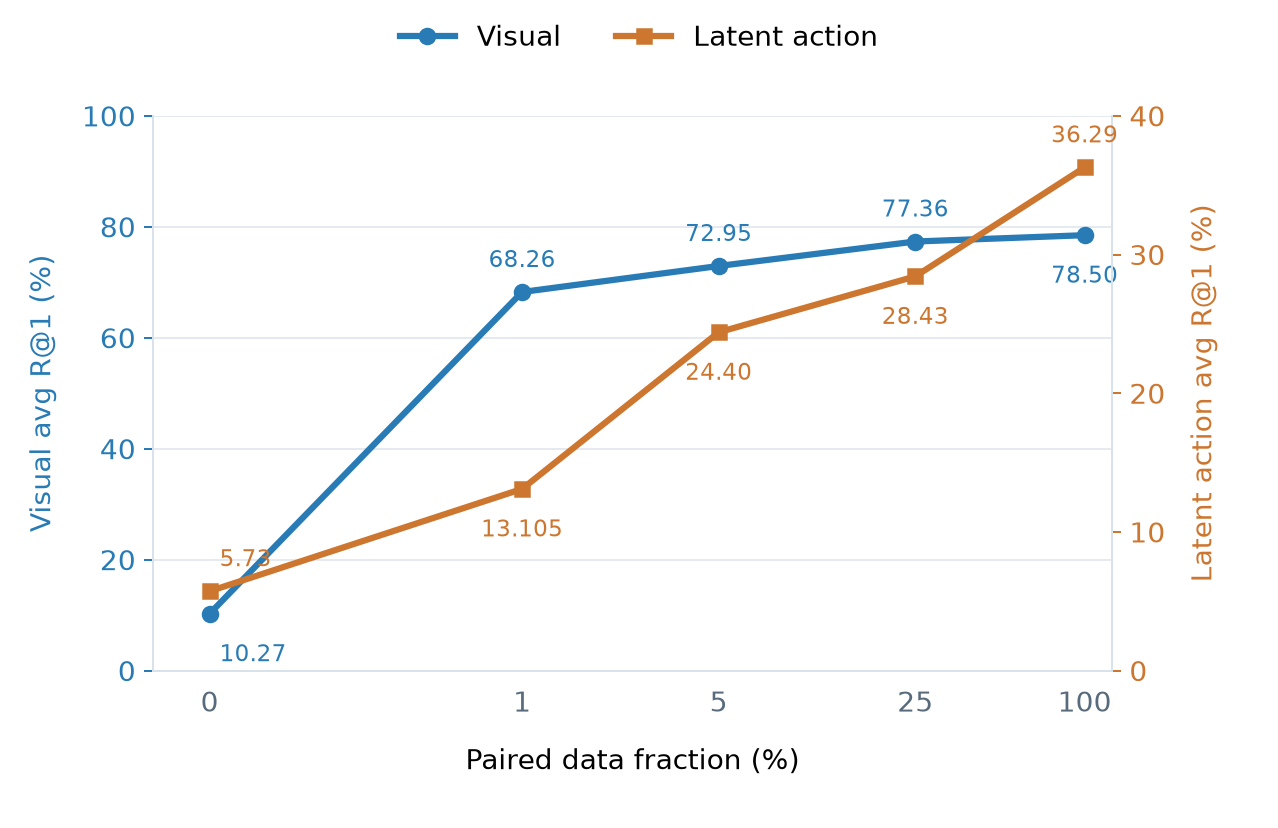
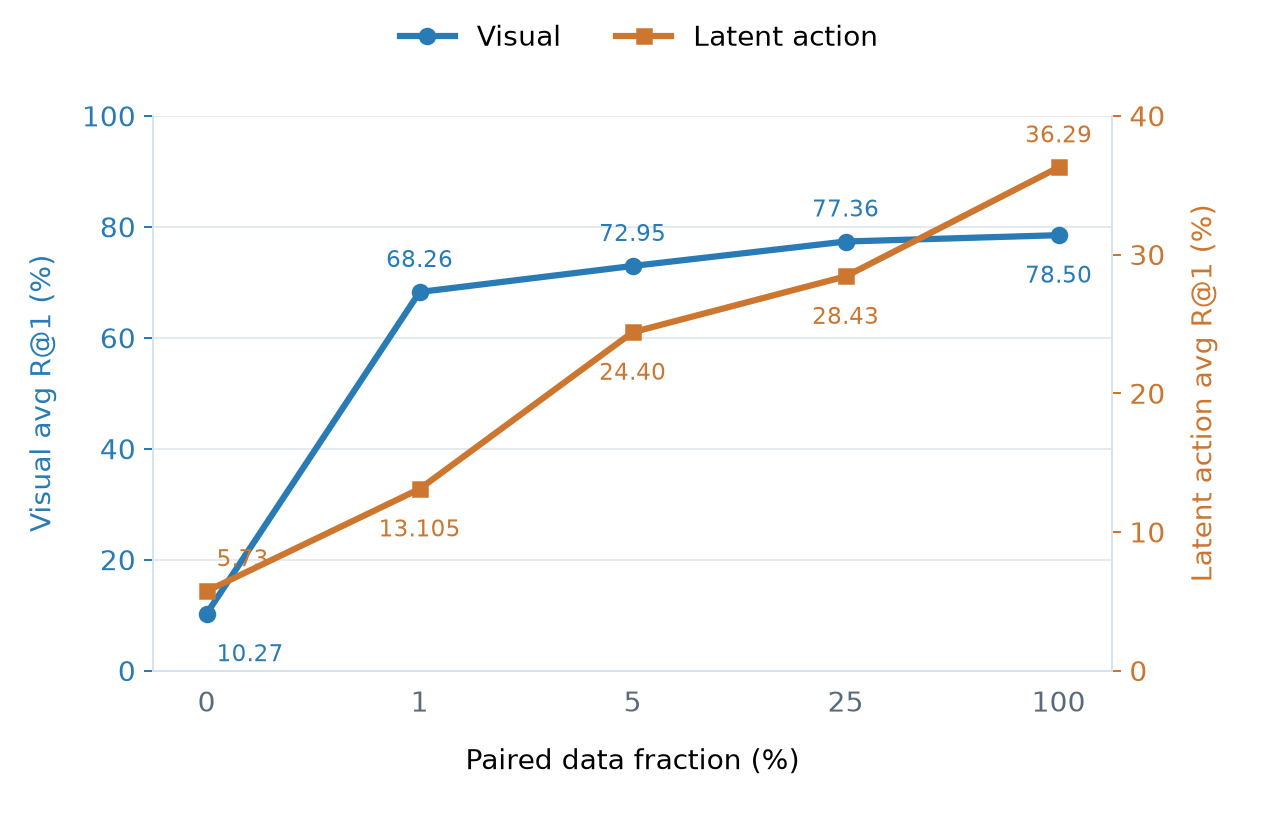
Refine paired-data scaling layout and labels

diff --git a/index.html b/index.html
@@ -32,9 +32,14 @@
 <h3 class="spaced">Cross-embodiment retrieval</h3><p class="section-intro compact">Average Recall@1 rises from <strong>43.55% to 78.50%</strong>. HARP improves both geometric alignment and discrimination between paired demonstrations.</p>
 <figure class="result-figure"><img loading="lazy" src="assets/retrieval.svg" alt="Average retrieval R@1: Unadapted 43.55%, HR 45.16%, HARP-HR 53.23%, HARP-L2 61.83%, HARP-SR 74.74%, HARP-SRPD 78.50%." width="652" height="254"><figcaption>Average of human-to-robot and robot-to-human Recall@1. Higher is better. Table 1.</figcaption></figure><details class="data-details"><summary>View full results · Table 1 · Bidirectional retrieval</summary><div class="table-wrap"><table><caption>Table 1 · Bidirectional retrieval</caption><thead><tr><th scope="col">Method</th><th scope="col">Human → robot</th><th scope="col">Robot → human</th><th scope="col">Average R@1</th></tr></thead><tbody><tr class=""><th scope="row">Unadapted</th><td>44.09</td><td>43.01</td><td>43.55</td></tr><tr class=""><th scope="row">HR</th><td>45.16</td><td>45.16</td><td>45.16</td></tr><tr class=""><th scope="row">HARP-HR</th><td>46.24</td><td>60.22</td><td>53.23</td></tr><tr class=""><th scope="row">HARP-L2</th><td>70.97</td><td>52.69</td><td>61.83</td></tr><tr class=""><th scope="row">HARP-SR</th><td>84.95</td><td>64.52</td><td>74.74</td></tr><tr class="ours"><th scope="row">HARP-SRPD</th><td>87.10</td><td>69.89</td><td>78.50</td></tr></tbody></table></div></details></section><section id="ablations"><p class="eyebrow">03 / Ablations</p><h2>Complementary signals make alignment stronger</h2><p class="section-intro">Self-prediction, cross-prediction, unpaired videos and manipulation-centric auxiliary cues each contribute to the learned representation.</p><figure class="result-figure"><img loading="lazy" src="assets/ablation.svg" alt="Full HARP leads all ablated variants in visual retrieval, latent-action retrieval and code-agreement gap." width="795" height="225"><figcaption>Controlled Stage-1 ablations. Removing one source of supervision degrades correspondence. Table 2.</figcaption></figure><details class="data-details"><summary>View full results · Table 2 · Component ablations</summary><div class="table-wrap"><table><caption>Table 2 · Component ablations</caption><thead><tr><th scope="col">Variant</th><th scope="col">Visual R@1</th><th scope="col">Latent R@1</th><th scope="col">Code-agreement gap</th></tr></thead><tbody><tr class="ours"><th scope="row">Full HARP</th><td>78.50</td><td>36.29</td><td>30.67</td></tr><tr class=""><th scope="row">Self-only</th><td>73.93</td><td>26.62</td><td>22.24</td></tr><tr class=""><th scope="row">Cross-only</th><td>75.10</td><td>28.03</td><td>25.16</td></tr><tr class=""><th scope="row">Paired-only</th><td>75.16</td><td>32.06</td><td>30.04</td></tr><tr class=""><th scope="row">Without auxiliary cues</th><td>73.37</td><td>34.07</td><td>26.71</td></tr></tbody></table></div></details><template id="paired-supervision-experiment"><h3 class="spaced">Strong performance with less paired supervision</h3><p class="section-intro compact">With 5% of the paired data, HARP retains 72.95% visual Recall@1 and a CALVIN average length of 4.214. Unpaired data and optimization budget are held fixed.</p><figure class="result-figure"><img loading="lazy" src="assets/scaling.svg" alt="Paired data scaling at 5%, 25% and 100% shows CALVIN average length 4.214, 4.354 and 4.481." width="722" height="254"><figcaption>Paired supervision scales from approximately 1.2M to 24M processed frames. Table 3.</figcaption></figure><details class="data-details"><summary>View full results · Table 3 · Paired-data scaling</summary><div class="table-wrap"><table><caption>Table 3 · Paired-data scaling</caption><thead><tr><th scope="col">Paired data</th><th scope="col">Visual R@1</th><th scope="col">Latent R@1</th><th scope="col">RLBench</th><th scope="col">CALVIN</th></tr></thead><tbody><tr class=""><th scope="row">100% (~24M frames)</th><td>78.50</td><td>36.29</td><td>46.59</td><td>4.481</td></tr><tr class=""><th scope="row">25% (~6M frames)</th><td>77.36</td><td>28.43</td><td>42.10</td><td>4.354</td></tr><tr class=""><th scope="row">5% (~1.2M frames)</th><td>72.95</td><td>24.40</td><td>40.70</td><td>4.214</td></tr></tbody></table></div></details></template></section><section id="rlbench"><p class="eyebrow">04 / Visual representation transfer</p><h2>Better features for robot policy learning</h2><p class="section-intro">With frozen visual encoders and a shared downstream policy setup, HARP-SRPD achieves <strong>46.59% average success</strong> across 18 RLBench tasks, compared with 37.56% for the unadapted encoder.</p><figure class="result-figure"><img loading="lazy" src="assets/rlbench.svg" alt="RLBench average success increases from 37.56% with unadapted features to 46.59% with HARP-SRPD." width="653" height="312"><figcaption>Same policy architecture, data, action space and optimization budget. Table 4.</figcaption></figure><details class="data-details"><summary>View full results · Table 4 · Frozen-encoder RLBench results</summary><div class="table-wrap"><table><caption>Table 4 · Frozen-encoder RLBench results</caption><thead><tr><th scope="col">Method</th><th scope="col">Success rate (%)</th></tr></thead><tbody><tr class=""><th scope="row">Unadapted</th><td>37.56</td></tr><tr class=""><th scope="row">HR</th><td>39.70</td></tr><tr class=""><th scope="row">HR-Style</th><td>38.22</td></tr><tr class=""><th scope="row">HARP-HR</th><td>35.11</td></tr><tr class=""><th scope="row">HARP-HR-Style</th><td>40.07</td></tr><tr class=""><th scope="row">HARP-L2</th><td>40.78</td></tr><tr class=""><th scope="row">HARP-SR</th><td>43.41</td></tr><tr class="ours"><th scope="row">HARP-SRPD</th><td>46.59</td></tr></tbody></table></div></details></section><section id="paired-data-scaling" aria-labelledby="paired-scaling-title">
 <p class="eyebrow">05 / Paired data scaling</p>
-<h2 id="paired-scaling-title">Limited paired data for feature alignment.</h2>
-<p class="section-intro">Collecting only <strong>1–5% of paired data</strong> already yields effective cross-embodiment feature alignment, enabling strong performance on CALVIN and in the real world.</p>
+<h2 id="paired-scaling-title">Limited paired data for feature alignment</h2>
+<p class="section-intro">Collecting only <strong>1–5% of paired data</strong> already yields effective human-robot feature alignment, enabling strong performance on RLBench and CALVIN.</p>
 <div class="paired-scaling-grid">
+<figure class="scaling-chart">
+<h3>Feature alignment</h3>
+<img loading="lazy" src="assets/paired-data-scaling.svg" width="710" height="460" alt="Visual and latent-action average Recall@1 at paired fractions 0, 1, 5, 25 and 100 percent. Visual: 10.27, 68.26, 72.95, 77.36, 78.50. Latent action: 5.73, 13.105, 24.40, 28.43, 36.29. Separate vertical axes, both higher is better.">
+<figcaption>Separate vertical axes show visual and latent-action average R@1. Paired-data fractions are shown as equally spaced experimental settings.</figcaption>
+</figure>
 <figure class="scaling-table">
 <h3>Downstream performance</h3>
 <div class="table-wrap"><table>
@@ -47,11 +52,7 @@
 </tbody></table></div>
 <figcaption>Parentheses indicate the approximate number of unique paired frames retained. Dataset-mixture probabilities, unpaired data and the optimization budget are fixed.</figcaption>
 </figure>
-<figure class="scaling-chart">
-<h3>Feature alignment</h3>
-<img loading="lazy" src="assets/paired-data-scaling.svg" width="710" height="460" alt="Visual and latent-action average Recall@1 at paired fractions 0, 1, 5, 25 and 100 percent. Visual: 10.27, 68.26, 72.95, 77.36, 78.50. Latent action: 5.73, 13.105, 24.40, 28.43, 36.29. Separate vertical axes, both higher is better.">
-<figcaption>Separate vertical axes show visual and latent-action average R@1. The horizontal axis uses a symmetric-log scale (linear from 0–1%) to make the low-data settings readable.</figcaption>
-</figure>
+
 </div>
 </section><section id="calvin"><p class="eyebrow">06 / Policy evaluation</p><h2>CALVIN · Generalization across environments</h2><p class="section-intro">Long-horizon manipulation in the ABC→D setting.</p><div class="metrics"><div><strong>4.481</strong><span>Average sequence length</span></div><div><strong>75.9%</strong><span>Five-task success rate</span></div><div><strong>10</strong><span>Actions per prediction</span></div></div><figure class="result-figure"><img loading="lazy" src="assets/calvin.svg" alt="CALVIN sequence success rates for eight evaluated models. HARP-VLA achieves 99.8, 96.7, 91.3, 84.4 and 75.9 percent for one through five consecutive tasks." width="647" height="312"><figcaption>Success rate for completing 1–5 consecutive tasks. System-level comparisons across evaluated policies. Table 6.</figcaption></figure><details class="data-details"><summary>View full results · Table 6 · CALVIN ABC→D</summary><div class="table-wrap"><table><caption>Table 6 · CALVIN ABC→D</caption><thead><tr><th scope="col">Model</th><th scope="col">1 task</th><th scope="col">2 tasks</th><th scope="col">3 tasks</th><th scope="col">4 tasks</th><th scope="col">5 tasks</th><th scope="col">Average length</th></tr></thead><tbody><tr class=""><th scope="row">π₀</th><td>92.3</td><td>82.4</td><td>72.1</td><td>62.2</td><td>53.7</td><td>3.627</td></tr><tr class=""><th scope="row">π₀.₅</th><td>94.4</td><td>86.0</td><td>76.4</td><td>69.7</td><td>61.0</td><td>3.875</td></tr><tr class=""><th scope="row">OpenVLA</th><td>91.3</td><td>77.8</td><td>62.0</td><td>52.1</td><td>43.5</td><td>3.270</td></tr><tr class=""><th scope="row">UniVLA</th><td>95.4</td><td>85.5</td><td>75.4</td><td>66.9</td><td>56.5</td><td>3.800</td></tr><tr class=""><th scope="row">OpenVLA-OFT</th><td>94.2</td><td>86.4</td><td>78.0</td><td>70.4</td><td>62.7</td><td>3.917</td></tr><tr class=""><th scope="row">HARP-VLA (L2)</th><td>95.8</td><td>89.7</td><td>81.3</td><td>72.8</td><td>64.8</td><td>4.044</td></tr><tr class=""><th scope="row">HARP-VLA (w/o freezing)</th><td>98.8</td><td>93.9</td><td>86.1</td><td>77.7</td><td>68.5</td><td>4.250</td></tr><tr class="ours"><th scope="row">HARP-VLA</th><td>99.8</td><td>96.7</td><td>91.3</td><td>84.4</td><td>75.9</td><td>4.481</td></tr></tbody></table></div></details><div id="calvin-demos" class="spaced"><h3>Five sequences, five steps each</h3><p class="section-intro compact">Read each row from left to right: five consecutive successful subtasks in each recorded sequence.</p><div class="gallery-tools"><div class="camera-toggle" role="group" aria-label="CALVIN camera"><button type="button" aria-pressed="true" data-camera="static">Static camera</button><button type="button" aria-pressed="false" data-camera="wrist">Gripper camera</button></div><button type="button" id="pause-demos">Pause all demos</button></div><p class="mobile-hint">Swipe to view all five steps →</p><div class="sim-scroll"><div class="sim-grid"><figure class="demo sim"><div class="video-frame"><video controls muted playsinline loop preload="none" poster="assets/calvin-1-1.jpg" aria-label="Sequence 1 · Step 1 Lift pink block slider" data-stem="calvin-1-1"><source src="assets/calvin-1-1.mp4" type="video/mp4"></video><button class="expand" type="button" aria-label="Enlarge  Sequence 1 · Step 1 Lift pink block slider" title="Enlarge video">↗</button></div><figcaption><span class="sequence-label">Sequence 1 · Step 1</span>Lift pink block slider</figcaption></figure><figure class="demo sim"><div class="video-frame"><video controls muted playsinline loop preload="none" poster="assets/calvin-1-2.jpg" aria-label="Sequence 1 · Step 2 Place in slider" data-stem="calvin-1-2"><source src="assets/calvin-1-2.mp4" type="video/mp4"></video><button class="expand" type="button" aria-label="Enlarge  Sequence 1 · Step 2 Place in slider" title="Enlarge video">↗</button></div><figcaption><span class="sequence-label">Sequence 1 · Step 2</span>Place in slider</figcaption></figure><figure class="demo sim"><div class="video-frame"><video controls muted playsinline loop preload="none" poster="assets/calvin-1-3.jpg" aria-label="Sequence 1 · Step 3 Open drawer" data-stem="calvin-1-3"><source src="assets/calvin-1-3.mp4" type="video/mp4"></video><button class="expand" type="button" aria-label="Enlarge  Sequence 1 · Step 3 Open drawer" title="Enlarge video">↗</button></div><figcaption><span class="sequence-label">Sequence 1 · Step 3</span>Open drawer</figcaption></figure><figure class="demo sim"><div class="video-frame"><video controls muted playsinline loop preload="none" poster="assets/calvin-1-4.jpg" aria-label="Sequence 1 · Step 4 Rotate red block right" data-stem="calvin-1-4"><source src="assets/calvin-1-4.mp4" type="video/mp4"></video><button class="expand" type="button" aria-label="Enlarge  Sequence 1 · Step 4 Rotate red block right" title="Enlarge video">↗</button></div><figcaption><span class="sequence-label">Sequence 1 · Step 4</span>Rotate red block right</figcaption></figure><figure class="demo sim"><div class="video-frame"><video controls muted playsinline loop preload="none" poster="assets/calvin-1-5.jpg" aria-label="Sequence 1 · Step 5 Lift red block table" data-stem="calvin-1-5"><source src="assets/calvin-1-5.mp4" type="video/mp4"></video><button class="expand" type="button" aria-label="Enlarge  Sequence 1 · Step 5 Lift red block table" title="Enlarge video">↗</button></div><figcaption><span class="sequence-label">Sequence 1 · Step 5</span>Lift red block table</figcaption></figure><figure class="demo sim"><div class="video-frame"><video controls muted playsinline loop preload="none" poster="assets/calvin-2-1.jpg" aria-label="Sequence 2 · Step 1 Open drawer" data-stem="calvin-2-1"><source src="assets/calvin-2-1.mp4" type="video/mp4"></video><button class="expand" type="button" aria-label="Enlarge  Sequence 2 · Step 1 Open drawer" title="Enlarge video">↗</button></div><figcaption><span class="sequence-label">Sequence 2 · Step 1</span>Open drawer</figcaption></figure><figure class="demo sim"><div class="video-frame"><video controls muted playsinline loop preload="none" poster="assets/calvin-2-2.jpg" aria-label="Sequence 2 · Step 2 Lift pink block table" data-stem="calvin-2-2"><source src="assets/calvin-2-2.mp4" type="video/mp4"></video><button class="expand" type="button" aria-label="Enlarge  Sequence 2 · Step 2 Lift pink block table" title="Enlarge video">↗</button></div><figcaption><span class="sequence-label">Sequence 2 · Step 2</span>Lift pink block table</figcaption></figure><figure class="demo sim"><div class="video-frame"><video controls muted playsinline loop preload="none" poster="assets/calvin-2-3.jpg" aria-label="Sequence 2 · Step 3 Place in slider" data-stem="calvin-2-3"><source src="assets/calvin-2-3.mp4" type="video/mp4"></video><button class="expand" type="button" aria-label="Enlarge  Sequence 2 · Step 3 Place in slider" title="Enlarge video">↗</button></div><figcaption><span class="sequence-label">Sequence 2 · Step 3</span>Place in slider</figcaption></figure><figure class="demo sim"><div class="video-frame"><video controls muted playsinline loop preload="none" poster="assets/calvin-2-4.jpg" aria-label="Sequence 2 · Step 4 Turn on lightbulb" data-stem="calvin-2-4"><source src="assets/calvin-2-4.mp4" type="video/mp4"></video><button class="expand" type="button" aria-label="Enlarge  Sequence 2 · Step 4 Turn on lightbulb" title="Enlarge video">↗</button></div><figcaption><span class="sequence-label">Sequence 2 · Step 4</span>Turn on lightbulb</figcaption></figure><figure class="demo sim"><div class="video-frame"><video controls muted playsinline loop preload="none" poster="assets/calvin-2-5.jpg" aria-label="Sequence 2 · Step 5 Rotate blue block left" data-stem="calvin-2-5"><source src="assets/calvin-2-5.mp4" type="video/mp4"></video><button class="expand" type="button" aria-label="Enlarge  Sequence 2 · Step 5 Rotate blue block left" title="Enlarge video">↗</button></div><figcaption><span class="sequence-label">Sequence 2 · Step 5</span>Rotate blue block left</figcaption></figure><figure class="demo sim"><div class="video-frame"><video controls muted playsinline loop preload="none" poster="assets/calvin-3-1.jpg" aria-label="Sequence 3 · Step 1 Push blue block left" data-stem="calvin-3-1"><source src="assets/calvin-3-1.mp4" type="video/mp4"></video><button class="expand" type="button" aria-label="Enlarge  Sequence 3 · Step 1 Push blue block left" title="Enlarge video">↗</button></div><figcaption><span class="sequence-label">Sequence 3 · Step 1</span>Push blue block left</figcaption></figure><figure class="demo sim"><div class="video-frame"><video controls muted playsinline loop preload="none" poster="assets/calvin-3-2.jpg" aria-label="Sequence 3 · Step 2 Close drawer" data-stem="calvin-3-2"><source src="assets/calvin-3-2.mp4" type="video/mp4"></video><button class="expand" type="button" aria-label="Enlarge  Sequence 3 · Step 2 Close drawer" title="Enlarge video">↗</button></div><figcaption><span class="sequence-label">Sequence 3 · Step 2</span>Close drawer</figcaption></figure><figure class="demo sim"><div class="video-frame"><video controls muted playsinline loop preload="none" poster="assets/calvin-3-3.jpg" aria-label="Sequence 3 · Step 3 Lift red block slider" data-stem="calvin-3-3"><source src="assets/calvin-3-3.mp4" type="video/mp4"></video><button class="expand" type="button" aria-label="Enlarge  Sequence 3 · Step 3 Lift red block slider" title="Enlarge video">↗</button></div><figcaption><span class="sequence-label">Sequence 3 · Step 3</span>Lift red block slider</figcaption></figure><figure class="demo sim"><div class="video-frame"><video controls muted playsinline loop preload="none" poster="assets/calvin-3-4.jpg" aria-label="Sequence 3 · Step 4 Place in slider" data-stem="calvin-3-4"><source src="assets/calvin-3-4.mp4" type="video/mp4"></video><button class="expand" type="button" aria-label="Enlarge  Sequence 3 · Step 4 Place in slider" title="Enlarge video">↗</button></div><figcaption><span class="sequence-label">Sequence 3 · Step 4</span>Place in slider</figcaption></figure><figure class="demo sim"><div class="video-frame"><video controls muted playsinline loop preload="none" poster="assets/calvin-3-5.jpg" aria-label="Sequence 3 · Step 5 Turn off lightbulb" data-stem="calvin-3-5"><source src="assets/calvin-3-5.mp4" type="video/mp4"></video><button class="expand" type="button" aria-label="Enlarge  Sequence 3 · Step 5 Turn off lightbulb" title="Enlarge video">↗</button></div><figcaption><span class="sequence-label">Sequence 3 · Step 5</span>Turn off lightbulb</figcaption></figure><figure class="demo sim"><div class="video-frame"><video controls muted playsinline loop preload="none" poster="assets/calvin-4-1.jpg" aria-label="Sequence 4 · Step 1 Push pink block right" data-stem="calvin-4-1"><source src="assets/calvin-4-1.mp4" type="video/mp4"></video><button class="expand" type="button" aria-label="Enlarge  Sequence 4 · Step 1 Push pink block right" title="Enlarge video">↗</button></div><figcaption><span class="sequence-label">Sequence 4 · Step 1</span>Push pink block right</figcaption></figure><figure class="demo sim"><div class="video-frame"><video controls muted playsinline loop preload="none" poster="assets/calvin-4-2.jpg" aria-label="Sequence 4 · Step 2 Lift pink block table" data-stem="calvin-4-2"><source src="assets/calvin-4-2.mp4" type="video/mp4"></video><button class="expand" type="button" aria-label="Enlarge  Sequence 4 · Step 2 Lift pink block table" title="Enlarge video">↗</button></div><figcaption><span class="sequence-label">Sequence 4 · Step 2</span>Lift pink block table</figcaption></figure><figure class="demo sim"><div class="video-frame"><video controls muted playsinline loop preload="none" poster="assets/calvin-4-3.jpg" aria-label="Sequence 4 · Step 3 Place in slider" data-stem="calvin-4-3"><source src="assets/calvin-4-3.mp4" type="video/mp4"></video><button class="expand" type="button" aria-label="Enlarge  Sequence 4 · Step 3 Place in slider" title="Enlarge video">↗</button></div><figcaption><span class="sequence-label">Sequence 4 · Step 3</span>Place in slider</figcaption></figure><figure class="demo sim"><div class="video-frame"><video controls muted playsinline loop preload="none" poster="assets/calvin-4-4.jpg" aria-label="Sequence 4 · Step 4 Push into drawer" data-stem="calvin-4-4"><source src="assets/calvin-4-4.mp4" type="video/mp4"></video><button class="expand" type="button" aria-label="Enlarge  Sequence 4 · Step 4 Push into drawer" title="Enlarge video">↗</button></div><figcaption><span class="sequence-label">Sequence 4 · Step 4</span>Push into drawer</figcaption></figure><figure class="demo sim"><div class="video-frame"><video controls muted playsinline loop preload="none" poster="assets/calvin-4-5.jpg" aria-label="Sequence 4 · Step 5 Close drawer" data-stem="calvin-4-5"><source src="assets/calvin-4-5.mp4" type="video/mp4"></video><button class="expand" type="button" aria-label="Enlarge  Sequence 4 · Step 5 Close drawer" title="Enlarge video">↗</button></div><figcaption><span class="sequence-label">Sequence 4 · Step 5</span>Close drawer</figcaption></figure><figure class="demo sim"><div class="video-frame"><video controls muted playsinline loop preload="none" poster="assets/calvin-5-1.jpg" aria-label="Sequence 5 · Step 1 Open drawer" data-stem="calvin-5-1"><source src="assets/calvin-5-1.mp4" type="video/mp4"></video><button class="expand" type="button" aria-label="Enlarge  Sequence 5 · Step 1 Open drawer" title="Enlarge video">↗</button></div><figcaption><span class="sequence-label">Sequence 5 · Step 1</span>Open drawer</figcaption></figure><figure class="demo sim"><div class="video-frame"><video controls muted playsinline loop preload="none" poster="assets/calvin-5-2.jpg" aria-label="Sequence 5 · Step 2 Push red block right" data-stem="calvin-5-2"><source src="assets/calvin-5-2.mp4" type="video/mp4"></video><button class="expand" type="button" aria-label="Enlarge  Sequence 5 · Step 2 Push red block right" title="Enlarge video">↗</button></div><figcaption><span class="sequence-label">Sequence 5 · Step 2</span>Push red block right</figcaption></figure><figure class="demo sim"><div class="video-frame"><video controls muted playsinline loop preload="none" poster="assets/calvin-5-3.jpg" aria-label="Sequence 5 · Step 3 Move slider left" data-stem="calvin-5-3"><source src="assets/calvin-5-3.mp4" type="video/mp4"></video><button class="expand" type="button" aria-label="Enlarge  Sequence 5 · Step 3 Move slider left" title="Enlarge video">↗</button></div><figcaption><span class="sequence-label">Sequence 5 · Step 3</span>Move slider left</figcaption></figure><figure class="demo sim"><div class="video-frame"><video controls muted playsinline loop preload="none" poster="assets/calvin-5-4.jpg" aria-label="Sequence 5 · Step 4 Lift pink block slider" data-stem="calvin-5-4"><source src="assets/calvin-5-4.mp4" type="video/mp4"></video><button class="expand" type="button" aria-label="Enlarge  Sequence 5 · Step 4 Lift pink block slider" title="Enlarge video">↗</button></div><figcaption><span class="sequence-label">Sequence 5 · Step 4</span>Lift pink block slider</figcaption></figure><figure class="demo sim"><div class="video-frame"><video controls muted playsinline loop preload="none" poster="assets/calvin-5-5.jpg" aria-label="Sequence 5 · Step 5 Place in slider" data-stem="calvin-5-5"><source src="assets/calvin-5-5.mp4" type="video/mp4"></video><button class="expand" type="button" aria-label="Enlarge  Sequence 5 · Step 5 Place in slider" title="Enlarge video">↗</button></div><figcaption><span class="sequence-label">Sequence 5 · Step 5</span>Place in slider</figcaption></figure></div></div><p class="table-note">Representative recorded rollouts. The gallery is separate from the aggregate benchmark evaluation.</p></div></section><section id="real-world"><p class="eyebrow">07 / Real-world manipulation</p><h2>From human videos to dexterous robot skills</h2><p class="section-intro">Xarm7 with a Robotera Xhand, evaluated on four tabletop manipulation tasks with 60 trials per task.</p><div class="metrics two"><div><strong>76.3%</strong><span>Average success rate</span></div><div><strong>+7.1 pp</strong><span>Over the strongest evaluated baseline</span></div></div><figure class="result-figure"><img loading="lazy" src="assets/realworld.svg" alt="Real-world success for pi0.5, OpenVLA-OFT and HARP-VLA on Pick, Push, Press and Flip. HARP-VLA scores 76.7%, 81.7%, 85.0% and 61.7%." width="650" height="259"><figcaption>Three reference policies shown for readability; all eight evaluated models are available below. Table 5.</figcaption></figure><details class="data-details"><summary>View full results · Table 5 · Real-world success rates (%)</summary><div class="table-wrap"><table><caption>Table 5 · Real-world success rates (%)</caption><thead><tr><th scope="col">Model</th><th scope="col">Pick</th><th scope="col">Push</th><th scope="col">Press</th><th scope="col">Flip</th><th scope="col">Average</th></tr></thead><tbody><tr class=""><th scope="row">π₀</th><td>58.3</td><td>75.0</td><td>56.7</td><td>35.0</td><td>56.3</td></tr><tr class=""><th scope="row">π₀.₅</th><td>71.7</td><td>83.3</td><td>68.3</td><td>53.3</td><td>69.2</td></tr><tr class=""><th scope="row">OpenVLA</th><td>0.0</td><td>23.3</td><td>18.3</td><td>0.0</td><td>10.4</td></tr><tr class=""><th scope="row">UniVLA</th><td>38.3</td><td>61.7</td><td>31.7</td><td>21.7</td><td>38.4</td></tr><tr class=""><th scope="row">OpenVLA-OFT</th><td>51.7</td><td>71.7</td><td>76.7</td><td>43.3</td><td>60.9</td></tr><tr class=""><th scope="row">HARP-VLA (L2)</th><td>70.0</td><td>71.7</td><td>81.7</td><td>56.7</td><td>70.0</td></tr><tr class=""><th scope="row">HARP-VLA (w/o freezing)</th><td>76.7</td><td>80.0</td><td>78.3</td><td>58.3</td><td>73.3</td></tr><tr class="ours"><th scope="row">HARP-VLA</th><td>76.7</td><td>81.7</td><td>85.0</td><td>61.7</td><td>76.3</td></tr></tbody></table></div></details><p class="table-note">Backbones, pretraining data and visual inputs differ across systems; these are system-level comparisons.</p><h3 class="spaced">Real-world demonstrations</h3><p class="section-intro compact">Three demonstrations per task. Switch between synchronized third-person and wrist-camera views.</p><div class="task"><h3>Pick and Place</h3><div class="video-grid"><figure class="demo real"><div class="video-frame"><video controls muted playsinline loop preload="none" poster="assets/real-01-front.jpg?v=2" aria-label="Bamboo  · 01" data-stem="real-01-front"><source src="assets/real-01-front.mp4?v=2" type="video/mp4"></video><button class="expand" type="button" aria-label="Enlarge Bamboo  · 01" title="Enlarge video">↗</button></div><figcaption>Bamboo <span class="demo-number">· 01</span></figcaption><div class="view-switch" role="group" aria-label="Camera view"><button type="button" aria-pressed="true" data-src="assets/real-01-front.mp4?v=2" data-poster="assets/real-01-front.jpg?v=2">Third-person</button><button type="button" aria-pressed="false" data-src="assets/real-01-wrist.mp4?v=2" data-poster="assets/real-01-wrist.jpg?v=2">Wrist</button></div></figure><figure class="demo real"><div class="video-frame"><video controls muted playsinline loop preload="none" poster="assets/real-02-front.jpg" aria-label="Yellow box  · 02" data-stem="real-02-front"><source src="assets/real-02-front.mp4" type="video/mp4"></video><button class="expand" type="button" aria-label="Enlarge Yellow box  · 02" title="Enlarge video">↗</button></div><figcaption>Yellow box <span class="demo-number">· 02</span></figcaption><div class="view-switch" role="group" aria-label="Camera view"><button type="button" aria-pressed="true" data-src="assets/real-02-front.mp4" data-poster="assets/real-02-front.jpg">Third-person</button><button type="button" aria-pressed="false" data-src="assets/real-02-wrist.mp4" data-poster="assets/real-02-wrist.jpg">Wrist</button></div></figure><figure class="demo real"><div class="video-frame"><video controls muted playsinline loop preload="none" poster="assets/real-03-front.jpg" aria-label="Yellow box  · 03" data-stem="real-03-front"><source src="assets/real-03-front.mp4" type="video/mp4"></video><button class="expand" type="button" aria-label="Enlarge Yellow box  · 03" title="Enlarge video">↗</button></div><figcaption>Yellow box <span class="demo-number">· 03</span></figcaption><div class="view-switch" role="group" aria-label="Camera view"><button type="button" aria-pressed="true" data-src="assets/real-03-front.mp4" data-poster="assets/real-03-front.jpg">Third-person</button><button type="button" aria-pressed="false" data-src="assets/real-03-wrist.mp4" data-poster="assets/real-03-wrist.jpg">Wrist</button></div></figure></div></div><div class="task"><h3>Push Box</h3><div class="video-grid"><figure class="demo real"><div class="video-frame"><video controls muted playsinline loop preload="none" poster="assets/real-04-front.jpg" aria-label="Red box  · 01" data-stem="real-04-front"><source src="assets/real-04-front.mp4" type="video/mp4"></video><button class="expand" type="button" aria-label="Enlarge Red box  · 01" title="Enlarge video">↗</button></div><figcaption>Red box <span class="demo-number">· 01</span></figcaption><div class="view-switch" role="group" aria-label="Camera view"><button type="button" aria-pressed="true" data-src="assets/real-04-front.mp4" data-poster="assets/real-04-front.jpg">Third-person</button><button type="button" aria-pressed="false" data-src="assets/real-04-wrist.mp4" data-poster="assets/real-04-wrist.jpg">Wrist</button></div></figure><figure class="demo real"><div class="video-frame"><video controls muted playsinline loop preload="none" poster="assets/real-05-front.jpg" aria-label="Green box  · 02" data-stem="real-05-front"><source src="assets/real-05-front.mp4" type="video/mp4"></video><button class="expand" type="button" aria-label="Enlarge Green box  · 02" title="Enlarge video">↗</button></div><figcaption>Green box <span class="demo-number">· 02</span></figcaption><div class="view-switch" role="group" aria-label="Camera view"><button type="button" aria-pressed="true" data-src="assets/real-05-front.mp4" data-poster="assets/real-05-front.jpg">Third-person</button><button type="button" aria-pressed="false" data-src="assets/real-05-wrist.mp4" data-poster="assets/real-05-wrist.jpg">Wrist</button></div></figure><figure class="demo real"><div class="video-frame"><video controls muted playsinline loop preload="none" poster="assets/real-06-front.jpg" aria-label="Red box  · 03" data-stem="real-06-front"><source src="assets/real-06-front.mp4" type="video/mp4"></video><button class="expand" type="button" aria-label="Enlarge Red box  · 03" title="Enlarge video">↗</button></div><figcaption>Red box <span class="demo-number">· 03</span></figcaption><div class="view-switch" role="group" aria-label="Camera view"><button type="button" aria-pressed="true" data-src="assets/real-06-front.mp4" data-poster="assets/real-06-front.jpg">Third-person</button><button type="button" aria-pressed="false" data-src="assets/real-06-wrist.mp4" data-poster="assets/real-06-wrist.jpg">Wrist</button></div></figure></div></div><div class="task"><h3>Press Button</h3><div class="video-grid"><figure class="demo real"><div class="video-frame"><video controls muted playsinline loop preload="none" poster="assets/real-07-front.jpg" aria-label="Button  · 01" data-stem="real-07-front"><source src="assets/real-07-front.mp4" type="video/mp4"></video><button class="expand" type="button" aria-label="Enlarge Button  · 01" title="Enlarge video">↗</button></div><figcaption>Button <span class="demo-number">· 01</span></figcaption><div class="view-switch" role="group" aria-label="Camera view"><button type="button" aria-pressed="true" data-src="assets/real-07-front.mp4" data-poster="assets/real-07-front.jpg">Third-person</button><button type="button" aria-pressed="false" data-src="assets/real-07-wrist.mp4" data-poster="assets/real-07-wrist.jpg">Wrist</button></div></figure><figure class="demo real"><div class="video-frame"><video controls muted playsinline loop preload="none" poster="assets/real-08-front.jpg" aria-label="Button  · 02" data-stem="real-08-front"><source src="assets/real-08-front.mp4" type="video/mp4"></video><button class="expand" type="button" aria-label="Enlarge Button  · 02" title="Enlarge video">↗</button></div><figcaption>Button <span class="demo-number">· 02</span></figcaption><div class="view-switch" role="group" aria-label="Camera view"><button type="button" aria-pressed="true" data-src="assets/real-08-front.mp4" data-poster="assets/real-08-front.jpg">Third-person</button><button type="button" aria-pressed="false" data-src="assets/real-08-wrist.mp4" data-poster="assets/real-08-wrist.jpg">Wrist</button></div></figure><figure class="demo real"><div class="video-frame"><video controls muted playsinline loop preload="none" poster="assets/real-09-front.jpg" aria-label="Button  · 03" data-stem="real-09-front"><source src="assets/real-09-front.mp4" type="video/mp4"></video><button class="expand" type="button" aria-label="Enlarge Button  · 03" title="Enlarge video">↗</button></div><figcaption>Button <span class="demo-number">· 03</span></figcaption><div class="view-switch" role="group" aria-label="Camera view"><button type="button" aria-pressed="true" data-src="assets/real-09-front.mp4" data-poster="assets/real-09-front.jpg">Third-person</button><button type="button" aria-pressed="false" data-src="assets/real-09-wrist.mp4" data-poster="assets/real-09-wrist.jpg">Wrist</button></div></figure></div></div><div class="task"><h3>Flip Cup</h3><div class="video-grid"><figure class="demo real"><div class="video-frame"><video controls muted playsinline loop preload="none" poster="assets/real-10-front.jpg" aria-label="Shaker cup  · 01" data-stem="real-10-front"><source src="assets/real-10-front.mp4" type="video/mp4"></video><button class="expand" type="button" aria-label="Enlarge Shaker cup  · 01" title="Enlarge video">↗</button></div><figcaption>Shaker cup <span class="demo-number">· 01</span></figcaption><div class="view-switch" role="group" aria-label="Camera view"><button type="button" aria-pressed="true" data-src="assets/real-10-front.mp4" data-poster="assets/real-10-front.jpg">Third-person</button><button type="button" aria-pressed="false" data-src="assets/real-10-wrist.mp4" data-poster="assets/real-10-wrist.jpg">Wrist</button></div></figure><figure class="demo real"><div class="video-frame"><video controls muted playsinline loop preload="none" poster="assets/real-11-front.jpg" aria-label="Blue cup  · 02" data-stem="real-11-front"><source src="assets/real-11-front.mp4" type="video/mp4"></video><button class="expand" type="button" aria-label="Enlarge Blue cup  · 02" title="Enlarge video">↗</button></div><figcaption>Blue cup <span class="demo-number">· 02</span></figcaption><div class="view-switch" role="group" aria-label="Camera view"><button type="button" aria-pressed="true" data-src="assets/real-11-front.mp4" data-poster="assets/real-11-front.jpg">Third-person</button><button type="button" aria-pressed="false" data-src="assets/real-11-wrist.mp4" data-poster="assets/real-11-wrist.jpg">Wrist</button></div></figure><figure class="demo real"><div class="video-frame"><video controls muted playsinline loop preload="none" poster="assets/real-12-front.jpg" aria-label="Blue cup  · 03" data-stem="real-12-front"><source src="assets/real-12-front.mp4" type="video/mp4"></video><button class="expand" type="button" aria-label="Enlarge Blue cup  · 03" title="Enlarge video">↗</button></div><figcaption>Blue cup <span class="demo-number">· 03</span></figcaption><div class="view-switch" role="group" aria-label="Camera view"><button type="button" aria-pressed="true" data-src="assets/real-12-front.mp4" data-poster="assets/real-12-front.jpg">Third-person</button><button type="button" aria-pressed="false" data-src="assets/real-12-wrist.mp4" data-poster="assets/real-12-wrist.jpg">Wrist</button></div></figure></div></div></section><section id="discussion" class="prose"><h2>Looking ahead</h2><p>HARP shows how a small paired bridge, combined with unpaired video dynamics, can improve learning from human demonstrations. Current limitations include the cost of paired data, sensitivity to trajectory tracking and viewpoint differences, and evaluation on a single real-world tabletop platform. Future directions include more embodiments, longer-horizon tasks and bimanual manipulation.</p></section><section id="citation"><h2>Citation</h2><div class="citation-box"><pre><code>@article{zhu2026harp,
   title={HARP-VLA: Human-Robot Aligned Representation Learning for Vision-Language-Action Model},

diff --git a/style.css b/style.css
@@ -8,13 +8,15 @@
 .actions .pill:not(.light){gap:9px}.link-icon{width:19px;height:19px;flex-shrink:0;display:inline-block}.hugging-face{font-size:20px;line-height:1}
 
 /* Paired-data scaling: table and dual-axis chart share a row on desktop. */
-.paired-scaling-grid{display:grid;grid-template-columns:minmax(0,1fr) minmax(0,1.18fr);gap:28px;align-items:start;margin-top:36px}
+.paired-scaling-grid{display:grid;grid-template-columns:minmax(0,1.18fr) minmax(0,1fr);gap:28px;align-items:start;margin-top:36px}
 .paired-scaling-grid h3{font-size:19px;margin-bottom:22px}
 .paired-scaling-grid figure{min-width:0}
 .scaling-table .table-wrap{padding:0 0 5px}
-.scaling-table th,.scaling-table td{padding:14px 7px;font-size:12px}
+.scaling-table th,.scaling-table td{padding:14px 4px;font-size:12px;text-align:center}
+.scaling-table table{width:auto;min-width:0;margin:0 auto}
+.scaling-table .table-wrap{margin-left:auto;margin-right:auto}
 .scaling-table th span{display:block;font-size:11px;font-weight:400;color:var(--muted)}
 .paired-scaling-grid figcaption{text-align:left;font-size:12px;line-height:1.65;margin-top:15px}
 .scaling-chart img{width:100%;height:auto}
-@media(max-width:900px){.paired-scaling-grid{grid-template-columns:1fr;gap:34px;max-width:710px;margin-left:auto;margin-right:auto}.scaling-table th,.scaling-table td{padding:12px 7px}.paired-scaling-grid h3{margin-bottom:16px}}
-@media(max-width:420px){.scaling-table th,.scaling-table td{font-size:10px;padding:10px 4px}}
+@media(max-width:900px){.paired-scaling-grid{grid-template-columns:1fr;gap:34px;max-width:710px;margin-left:auto;margin-right:auto}.scaling-table th,.scaling-table td{padding:12px 4px}.paired-scaling-grid h3{margin-bottom:16px}}
+@media(max-width:420px){.scaling-table th,.scaling-table td{font-size:10px;padding:10px 3px}}

diff --git a/scripts/render_paired_scaling.py b/scripts/render_paired_scaling.py
@@ -6,17 +6,17 @@ import matplotlib.pyplot as plt
 from matplotlib.ticker import FixedLocator, FixedFormatter, NullLocator
 
 fractions = [0, 1, 5, 25, 100]
+positions = list(range(len(fractions)))
 visual = [10.27, 68.26, 72.95, 77.36, 78.50]
 latent = [5.73, 13.105, 24.40, 28.43, 36.29]
 plt.rcParams.update({"font.family": "DejaVu Sans", "font.size": 11, "svg.fonttype": "none", "axes.spines.top": False})
 fig, left = plt.subplots(figsize=(7.1, 4.6), facecolor="white")
 right = left.twinx()
 blue, orange = "#287bb5", "#cc762f"
-left.set_xscale("symlog", linthresh=1)
-left.set_xlim(-.18, 125)
+left.set_xlim(-.25, 4.25)
 left.set_ylim(0, 100); right.set_ylim(0, 40)
 left.set_yticks([0, 20, 40, 60, 80, 100]); right.set_yticks([0, 10, 20, 30, 40])
-left.xaxis.set_major_locator(FixedLocator(fractions))
+left.xaxis.set_major_locator(FixedLocator(positions))
 left.xaxis.set_major_formatter(FixedFormatter(["0", "1", "5", "25", "100"]))
 left.xaxis.set_minor_locator(NullLocator())
 left.set_xlabel("Paired data fraction (%)", labelpad=12)
@@ -26,11 +26,11 @@ left.tick_params(axis="y", colors=blue); right.tick_params(axis="y", colors=oran
 left.tick_params(axis="x", length=0, pad=8, colors="#586b7c")
 left.grid(axis="y", color="#e4eaf0", linewidth=.8)
 left.set_axisbelow(True)
-a, = left.plot(fractions, visual, color=blue, lw=2.5, marker="o", markersize=6, label="Visual")
-b, = right.plot(fractions, latent, color=orange, lw=2.5, marker="s", markersize=5.5, label="Latent action")
+a, = left.plot(positions, visual, color=blue, lw=2.5, marker="o", markersize=6, label="Visual")
+b, = right.plot(positions, latent, color=orange, lw=2.5, marker="s", markersize=5.5, label="Latent action")
 for ax, values, color, dy in [(left, visual, blue, 10), (right, latent, orange, -19)]:
- for x, y in zip(fractions, values):
-  offset = (-19 if ax is left else 10) if x in [0, 100] else dy
+ for x, y in zip(positions, values):
+  offset = (-19 if ax is left else 10) if x in [0, 4] else dy
   label = "13.105" if y == 13.105 else f"{y:.2f}"
   ax.annotate(label, (x, y), xytext=(4 if x==0 else 0, offset), textcoords="offset points", ha="left" if x==0 else "center", fontsize=9, color=color)
 for ax in [left, right]:
@@ -41,3 +41,6 @@ fig.subplots_adjust(left=.12, right=.87, bottom=.19, top=.86)
 out=Path(__file__).resolve().parents[1]/"assets"
 fig.savefig(out/"paired-data-scaling.svg", metadata={"Date": None})
 fig.savefig(out/"paired-data-scaling.png", dpi=180)
+
+svg = out / "paired-data-scaling.svg"
+svg.write_text("\n".join(line.rstrip() for line in svg.read_text().splitlines()) + "\n")
